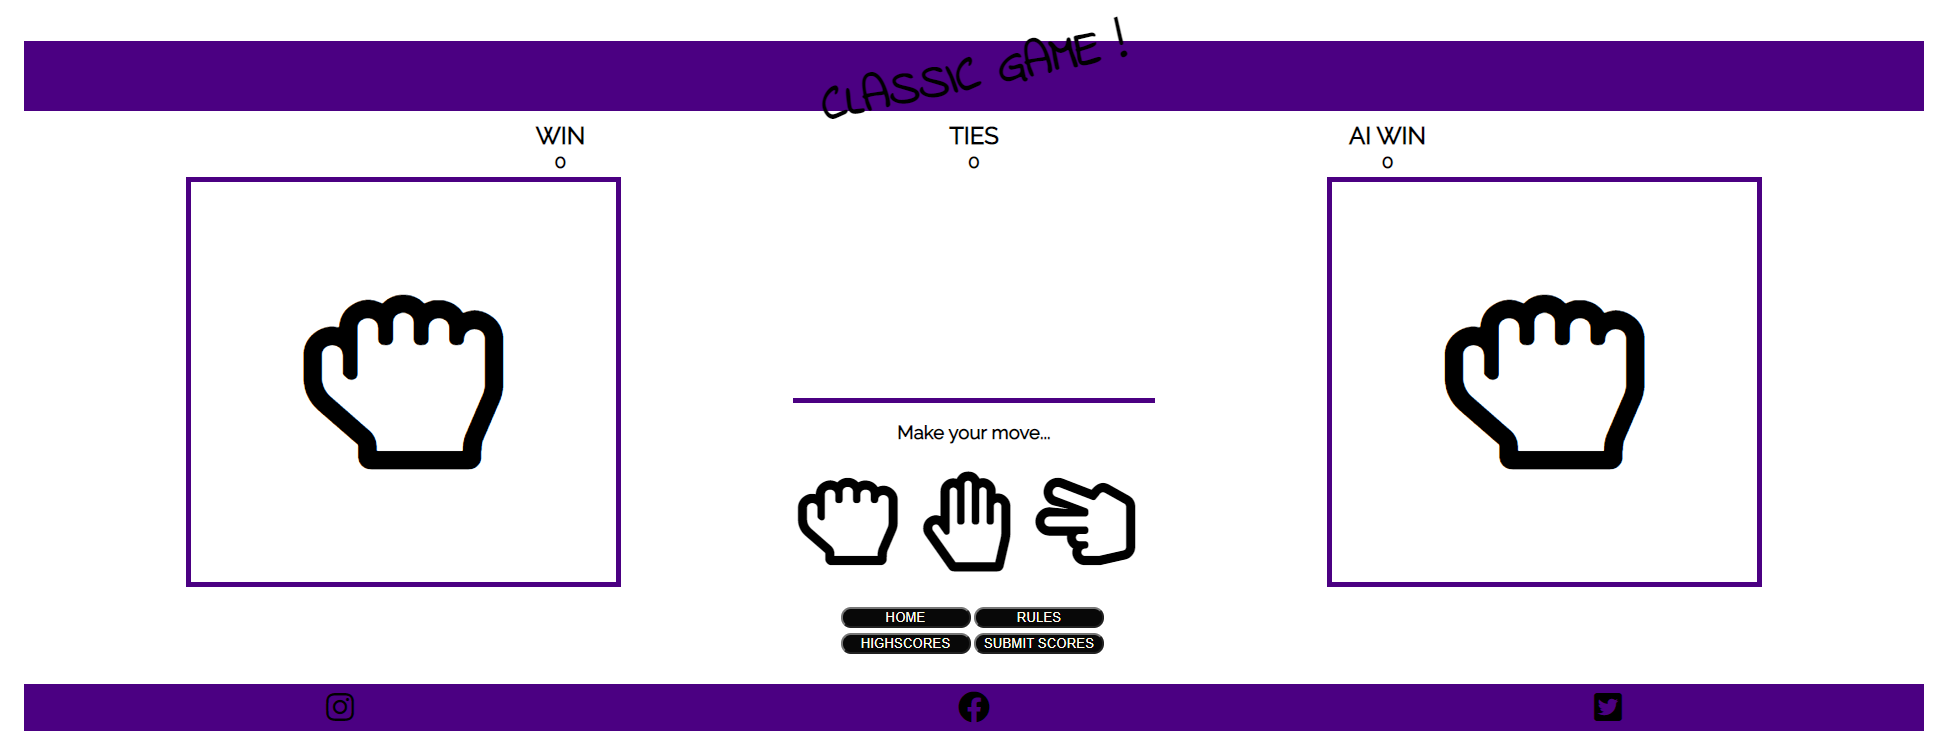
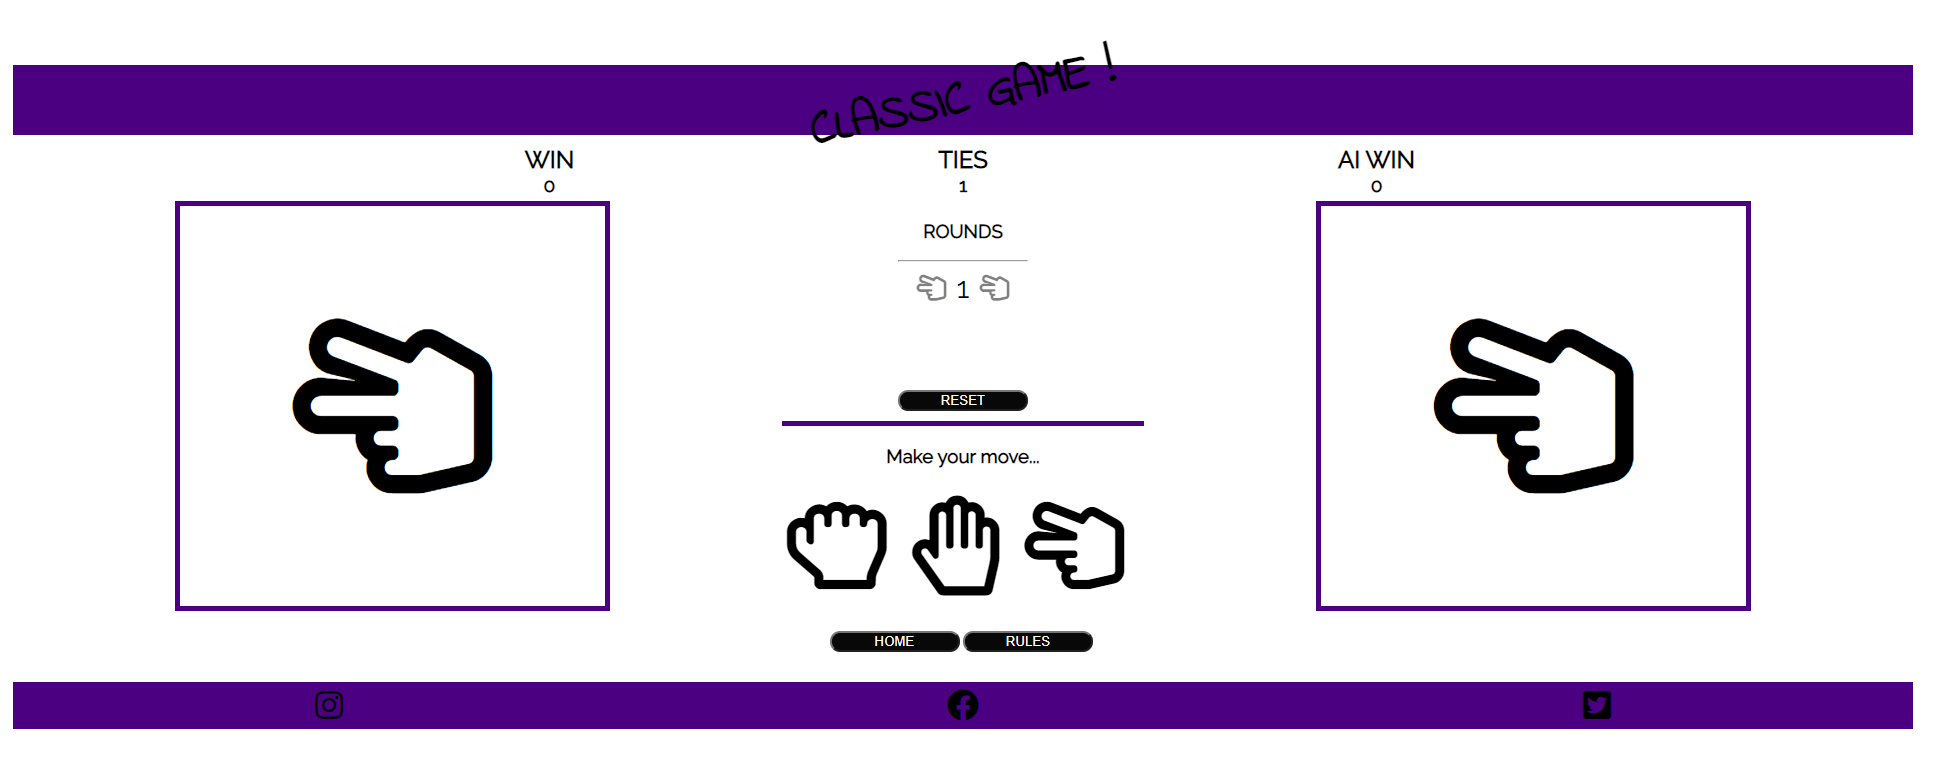
add a new function for the modern game mode

diff --git a/assets/javascript/my_scripts.js b/assets/javascript/my_scripts.js
@@ -27,100 +27,104 @@ let resultBox = document.querySelectorAll(".round")
 let buttons = document.querySelectorAll(".selections")
 let showUserChoice = document.querySelector(".user i")
 let showComputerChoice = document.querySelector(".ai i")
-let randomClasses = ["far fa-hand-rock", "far fa-hand-paper", "far fa-hand-scissors", "far fa-hand-lizard", "far fa-hand-spock"]
+let randomClassesClassic = ["far fa-hand-rock", "far fa-hand-paper", "far fa-hand-scissors"]
+let randomClassesModern = ["far fa-hand-rock", "far fa-hand-paper", "far fa-hand-scissors", "far fa-hand-lizard", "far fa-hand-spock"]
 let showUserLastchoice = document.querySelector(".user-result i")
 let showCompLastchoice = document.querySelector(".comp-result i")
 let resetBtn = document.getElementById("reset-btn")
+let playClassic = document.getElementById("classic-body")
+let playModern = document.getElementById("modern-body")
 let uScores = 1
 let cScores = 1
 let tScores = 1
 let tScoresRes = 1
 
 // With guidance from slackoverflow.com
-let game = () => {
+// For the modern game
+let gameModern = () => {
     // setting forEach function to buttons
     buttons.forEach(btn => {
         btn.addEventListener("click", (e) => {
             // player choice and random choice for the computer
             let clickedBtn = e.target.className
             showUserChoice.className = clickedBtn
-            let randomNum = Math.floor(Math.random() * randomClasses.length)
-            showComputerChoice.className = randomClasses[randomNum]
+            let randomNum = Math.floor(Math.random() * randomClassesModern.length)
+            showComputerChoice.className = randomClassesModern[randomNum]
             // display the rounds area and updates rounds nr
             rounds.style.display = "flex"
             showUserLastchoice.className = clickedBtn
             roundScores.innerHTML = tScoresRes++
-            showCompLastchoice.className = randomClasses[randomNum]
+            showCompLastchoice.className = randomClassesModern[randomNum]
             resetBtn.onclick = () => {
                 location.reload()
-            }       
+            }
             // Game score
             // if it is a tie
-            if(showUserChoice.className === showComputerChoice.className){
+            if (showUserChoice.className === showComputerChoice.className) {
                 userScores.innerHTML = userScores.innerHTML;
                 computerScores.innerHTML = computerScores.innerHTML;
                 tieScores.innerHTML = tScores
                 tScores++
-            } 
-           // if it's not a Tie.
-            else if(showUserChoice.className === randomClasses[0] && showComputerChoice.className === randomClasses[2]){
+            }
+            // if it's not a Tie.
+            else if (showUserChoice.className === randomClassesModern[0] && showComputerChoice.className === randomClassesModern[2]) {
                 userScores.innerHTML = uScores
                 uScores++
-            }else if(showUserChoice.className === randomClasses[0] && showComputerChoice.className === randomClasses[1]){
+            } else if (showUserChoice.className === randomClassesModern[0] && showComputerChoice.className === randomClassesModern[1]) {
                 computerScores.innerHTML = cScores
                 cScores++
-            }else if(showUserChoice.className === randomClasses[0] && showComputerChoice.className === randomClasses[3]){
+            } else if (showUserChoice.className === randomClassesModern[0] && showComputerChoice.className === randomClassesModern[3]) {
                 userScores.innerHTML = uScores
                 uScores++
-            }else if(showUserChoice.className === randomClasses[0] && showComputerChoice.className === randomClasses[4]){
+            } else if (showUserChoice.className === randomClassesModern[0] && showComputerChoice.className === randomClassesModern[4]) {
                 computerScores.innerHTML = cScores
                 cScores++
-            }else if(showUserChoice.className === randomClasses[1] && showComputerChoice.className === randomClasses[2]){
+            } else if (showUserChoice.className === randomClassesModern[1] && showComputerChoice.className === randomClassesModern[2]) {
                 computerScores.innerHTML = cScores
                 cScores++
-            }else if(showUserChoice.className === randomClasses[1] && showComputerChoice.className === randomClasses[0]){
+            } else if (showUserChoice.className === randomClassesModern[1] && showComputerChoice.className === randomClassesModern[0]) {
                 userScores.innerHTML = uScores
                 uScores++
-            }else if(showUserChoice.className === randomClasses[1] && showComputerChoice.className === randomClasses[3]){
+            } else if (showUserChoice.className === randomClassesModern[1] && showComputerChoice.className === randomClassesModern[3]) {
                 computerScores.innerHTML = cScores
                 cScores++
-            }else if(showUserChoice.className === randomClasses[1] && showComputerChoice.className === randomClasses[4]){
+            } else if (showUserChoice.className === randomClassesModern[1] && showComputerChoice.className === randomClassesModern[4]) {
                 userScores.innerHTML = uScores
                 uScores++
-            }else if(showUserChoice.className === randomClasses[2] && showComputerChoice.className === randomClasses[0]){
+            } else if (showUserChoice.className === randomClassesModern[2] && showComputerChoice.className === randomClassesModern[0]) {
                 computerScores.innerHTML = cScores
                 cScores++
-            }else if(showUserChoice.className === randomClasses[2] && showComputerChoice.className === randomClasses[1]){
+            } else if (showUserChoice.className === randomClassesModern[2] && showComputerChoice.className === randomClassesModern[1]) {
                 userScores.innerHTML = uScores
                 uScores++
-            }else if(showUserChoice.className === randomClasses[2] && showComputerChoice.className === randomClasses[3]){
+            } else if (showUserChoice.className === randomClassesModern[2] && showComputerChoice.className === randomClassesModern[3]) {
                 userScores.innerHTML = uScores
                 uScores++
-            }else if(showUserChoice.className === randomClasses[2] && showComputerChoice.className === randomClasses[4]){
+            } else if (showUserChoice.className === randomClassesModern[2] && showComputerChoice.className === randomClassesModern[4]) {
                 computerScores.innerHTML = cScores
                 cScores++
-            }else if(showUserChoice.className === randomClasses[3] && showComputerChoice.className === randomClasses[0]){
+            } else if (showUserChoice.className === randomClassesModern[3] && showComputerChoice.className === randomClassesModern[0]) {
                 computerScores.innerHTML = cScores
                 cScores++
-            }else if(showUserChoice.className === randomClasses[3] && showComputerChoice.className === randomClasses[1]){
+            } else if (showUserChoice.className === randomClassesModern[3] && showComputerChoice.className === randomClassesModern[1]) {
                 userScores.innerHTML = uScores
                 uScores++
-            }else if(showUserChoice.className === randomClasses[3] && showComputerChoice.className === randomClasses[2]){
+            } else if (showUserChoice.className === randomClassesModern[3] && showComputerChoice.className === randomClassesModern[2]) {
                 computerScores.innerHTML = cScores
                 cScores++
-            }else if(showUserChoice.className === randomClasses[3] && showComputerChoice.className === randomClasses[4]){
+            } else if (showUserChoice.className === randomClassesModern[3] && showComputerChoice.className === randomClassesModern[4]) {
                 userScores.innerHTML = uScores
                 uScores++
-            }else if(showUserChoice.className === randomClasses[4] && showComputerChoice.className === randomClasses[0]){
+            } else if (showUserChoice.className === randomClassesModern[4] && showComputerChoice.className === randomClassesModern[0]) {
                 userScores.innerHTML = uScores
                 uScores++
-            }else if(showUserChoice.className === randomClasses[4] && showComputerChoice.className === randomClasses[1]){
+            } else if (showUserChoice.className === randomClassesModern[4] && showComputerChoice.className === randomClassesModern[1]) {
                 computerScores.innerHTML = cScores
                 cScores++
-            }else if(showUserChoice.className === randomClasses[4] && showComputerChoice.className === randomClasses[2]){
+            } else if (showUserChoice.className === randomClassesModern[4] && showComputerChoice.className === randomClassesModern[2]) {
                 userScores.innerHTML = uScores
                 uScores++
-            }else if(showUserChoice.className === randomClasses[4] && showComputerChoice.className === randomClasses[3]){
+            } else if (showUserChoice.className === randomClassesModern[4] && showComputerChoice.className === randomClassesModern[3]) {
                 computerScores.innerHTML = cScores
                 cScores++
             }
@@ -128,6 +132,52 @@ let game = () => {
     })
 }
 
-
-// Calling the game function
-game()
+// For the Classic Game
+let gameClassic = () => {
+    // setting forEach function to buttons
+    buttons.forEach(btn => {
+        btn.addEventListener("click", (e) => {
+            // player choice and random choice for the computer
+            let clickedBtn = e.target.className
+            showUserChoice.className = clickedBtn
+            let randomNum = Math.floor(Math.random() * randomClassesClassic.length)
+            showComputerChoice.className = randomClassesClassic[randomNum]
+            // display the rounds area and updates rounds nr
+            rounds.style.display = "flex"
+            showUserLastchoice.className = clickedBtn
+            roundScores.innerHTML = tScoresRes++
+            showCompLastchoice.className = randomClassesClassic[randomNum]
+            resetBtn.onclick = () => {
+                location.reload()
+            }
+            // Game score
+            // if it is a tie
+            if (showUserChoice.className === showComputerChoice.className) {
+                userScores.innerHTML = userScores.innerHTML;
+                computerScores.innerHTML = computerScores.innerHTML;
+                tieScores.innerHTML = tScores
+                tScores++
+            }
+            // if it's not a Tie.
+            else if (showUserChoice.className === randomClassesClassic[0] && showComputerChoice.className === randomClassesClassic[2]) {
+                userScores.innerHTML = uScores
+                uScores++
+            } else if (showUserChoice.className === randomClassesClassic[0] && showComputerChoice.className === randomClassesClassic[1]) {
+                computerScores.innerHTML = cScores
+                cScores++
+            } else if (showUserChoice.className === randomClassesClassic[1] && showComputerChoice.className === randomClassesClassic[0]) {
+                userScores.innerHTML = uScores
+                uScores++
+            } else if (showUserChoice.className === randomClassesClassic[1] && showComputerChoice.className === randomClassesClassic[2]) {
+                computerScores.innerHTML = cScores
+                cScores++
+            } else if (showUserChoice.className === randomClassesClassic[2] && showComputerChoice.className === randomClassesClassic[0]) {
+                computerScores.innerHTML = cScores
+                cScores++
+            } else if (showUserChoice.className === randomClassesClassic[2] && showComputerChoice.className === randomClassesClassic[1]) {
+                userScores.innerHTML = uScores
+                uScores++
+            }
+        })
+    })
+}

diff --git a/modern.html b/modern.html
@@ -14,7 +14,7 @@
     <title>RPS-GAME</title>
 </head>
 
-<body>
+<body onload="gameModern()">
     <header class="heading head-box">
         <h1 id="head-text">MODERN GAME !</h1>
     </header>
@@ -33,7 +33,7 @@
                 <h2>AI WIN</h2>
                 <span id="ai-score" class="points">0</span>
             </div>
-        </div>    
+        </div>
         <div id="user-choice" class="user"><i class="far fa-hand-rock"></i></div>
         <div id="ai-choice" class="ai"><i class="far fa-hand-rock"></i></div>
         <div id="last-rounds" class="rounds">
@@ -67,7 +67,7 @@
     </div>
     <!-- links for rules and highscores -->
     <div class="play-buttons">
-        <a href="index.html"><button class="btns" id="home">HOME</button></a>
+        <button class="btns" id="home" onclick="window.location.href='/index.html'">HOME</button>
         <button class="btns" id="rules">RULES</button>
         <!-- Modal content , some of the code from w3schools.com -->
         <div id="myModal" class="modal">
@@ -86,13 +86,13 @@
                             <p><i class="far fa-hand-rock"></i> BLUNTS <i class="far fa-hand-scissors"></i></p>
                             <p><i class="far fa-hand-scissors"></i> CUTS <i class="far fa-hand-paper"></i></p>
                             <p><i class="far fa-hand-paper"></i> WRAPS <i class="far fa-hand-rock"></i></p>
-                            <p><i class="far fa-hand-spock"></i> SMASHES <i class="far fa-hand-scissors"></i></i></p>
-                            <p><i class="far fa-hand-lizard"></i> POISIONS <i class="far fa-hand-spock"></i></i></p>
-                            <p><i class="far fa-hand-scissors"></i> DECAPITATES <i class="far fa-hand-lizard"></i></i></p>
-                            <p><i class="far fa-hand-paper"></i> DISPROVES <i class="far fa-hand-spock"></i></i></p>
+                            <p><i class="far fa-hand-spock"></i> SMASHES <i class="far fa-hand-scissors"></i></p>
+                            <p><i class="far fa-hand-lizard"></i> POISIONS <i class="far fa-hand-spock"></i></p>
+                            <p><i class="far fa-hand-scissors"></i> DECAPITATES <i class="far fa-hand-lizard"></i></p>
+                            <p><i class="far fa-hand-paper"></i> DISPROVES <i class="far fa-hand-spock"></i></p>
                             <p><i class="far fa-hand-rock"></i> CRUSCHES <i class="far fa-hand-lizard"></i></p>
-                            <p><i class="far fa-hand-spock"></i> VAPORIZES <i class="far fa-hand-rock"></i></i></p>
-                            <p><i class="far fa-hand-lizard"></i> EATS <i class="far fa-hand-paper"></i></i></p>
+                            <p><i class="far fa-hand-spock"></i> VAPORIZES <i class="far fa-hand-rock"></i></p>
+                            <p><i class="far fa-hand-lizard"></i> EATS <i class="far fa-hand-paper"></i></p>
                         </div>
                     </div>
                 </div>

diff --git a/index.html b/index.html
@@ -38,7 +38,8 @@
                 <br><br>
                 The rest, as they say, is history.
                 <br>
-                <a id="citation" href="https://www.tofugu.com/japan/janken/" target="blank"><strong><em>Citation: Tofugu</em></strong></a>
+                <a id="citation" href="https://www.tofugu.com/japan/janken/" target="blank"><strong><em>Citation:
+                            Tofugu</em></strong></a>
             </p>
         </div>
     </div>
@@ -82,13 +83,13 @@
                             <p><i class="far fa-hand-rock"></i> BLUNTS <i class="far fa-hand-scissors"></i></p>
                             <p><i class="far fa-hand-scissors"></i> CUTS <i class="far fa-hand-paper"></i></p>
                             <p><i class="far fa-hand-paper"></i> WRAPS <i class="far fa-hand-rock"></i></p>
-                            <p><i class="far fa-hand-spock"></i> SMASHES <i class="far fa-hand-scissors"></i></i></p>
-                            <p><i class="far fa-hand-lizard"></i> POISIONS <i class="far fa-hand-spock"></i></i></p>
-                            <p><i class="far fa-hand-scissors"></i> DECAPITATES <i class="far fa-hand-lizard"></i></i></p>
-                            <p><i class="far fa-hand-paper"></i> DISPROVES <i class="far fa-hand-spock"></i></i></p>
+                            <p><i class="far fa-hand-spock"></i> SMASHES <i class="far fa-hand-scissors"></i></p>
+                            <p><i class="far fa-hand-lizard"></i> POISIONS <i class="far fa-hand-spock"></i></p>
+                            <p><i class="far fa-hand-scissors"></i> DECAPITATES <i class="far fa-hand-lizard"></i></p>
+                            <p><i class="far fa-hand-paper"></i> DISPROVES <i class="far fa-hand-spock"></i></p>
                             <p><i class="far fa-hand-rock"></i> CRUSCHES <i class="far fa-hand-lizard"></i></p>
-                            <p><i class="far fa-hand-spock"></i> VAPORIZES <i class="far fa-hand-rock"></i></i></p>
-                            <p><i class="far fa-hand-lizard"></i> EATS <i class="far fa-hand-paper"></i></i></p>
+                            <p><i class="far fa-hand-spock"></i> VAPORIZES <i class="far fa-hand-rock"></i></p>
+                            <p><i class="far fa-hand-lizard"></i> EATS <i class="far fa-hand-paper"></i></p>
                         </div>
                     </div>
                 </div>

diff --git a/classic.html b/classic.html
@@ -10,11 +10,11 @@
     <!-- Favicon and css stylesheet links -->
     <link rel="icon" type="image/png" sizes="16x16" href="assets/images/favicon.png">
     <link rel="stylesheet" href="assets/css/style.css">
-
+    
     <title>RPS-GAME</title>
 </head>
 
-<body>
+<body onload="gameClassic()">
     <header class="heading head-box">
         <h1 id="head-text">CLASSIC GAME !</h1>
     </header>
@@ -33,7 +33,7 @@
                 <h2>AI WIN</h2>
                 <span id="ai-score" class="points">0</span>
             </div>
-        </div>    
+        </div>
         <div id="user-choice" class="user"><i class="far fa-hand-rock"></i></div>
         <div id="ai-choice" class="ai"><i class="far fa-hand-rock"></i></div>
         <div id="last-rounds" class="rounds">
@@ -65,7 +65,7 @@
     </div>
     <!-- links for rules and highscores -->
     <div class="play-buttons">
-        <a href="index.html"><button class="btns" id="home">HOME</button></a>
+        <button class="btns" id="home" onclick="window.location.href='/index.html'">HOME</button>
         <button class="btns" id="rules">RULES</button>
         <!-- Modal content , some of the code from w3schools.com -->
         <div id="myModal" class="modal">

diff --git a/assets/css/style.css b/assets/css/style.css
@@ -369,7 +369,7 @@ h2 {
         justify-content: center;
     }
 
-    .user, 
+    .user,
     .ai {
         display: inline-flex;
         justify-content: center;
@@ -422,7 +422,7 @@ h2 {
         font-size: 11px;
     }
 
-    #intro-box > div > h2 {
+    #intro-box>div>h2 {
         font-size: 20px;
     }
 
@@ -431,7 +431,7 @@ h2 {
         padding: 5px;
     }
 
-    .user, 
+    .user,
     .ai {
         width: 150px;
     }
@@ -455,11 +455,11 @@ h2 {
         font-size: 10px;
     }
 
-    #intro-box > div > h2 {
+    #intro-box>div>h2 {
         font-size: 15px;
     }
 
-    #result-box > div > h3 {
+    #result-box>div>h3 {
         margin: 0;
     }
 
@@ -467,7 +467,7 @@ h2 {
         font-size: 30px;
     }
 
-    .grid-game > div > i {
+    .grid-game>div>i {
         font-size: 60px;
     }
 

diff --git a/README.md b/README.md
@@ -48,23 +48,22 @@ The primary goal of this site is to give visitors a fun time and to have a place
 ![](assets/readme_media/footer.png)
 
 # Feauters left to implement.
-*
-*
-*
-*
+* Highscore section
+* Different levels of difficulty
+* More Games
 
 ## Validator testing.
 * HTML
-    * 
+  * No errors were returned when passing through the official [W3C validator](https://validator.w3.org/nu/)
 * CSS
-    *
+  * No errors were found when passing through the official [Jigsaw validator](https://jigsaw.w3.org/css-validator/)
 * JavaScript
-    *
+  * No errors were found when passing through the official [Jshint validator](https://jshint.com)
 # Bugs.
-    *
-    *
-    *
-    *
+  * 
+  *
+  *
+  *
 
 # Deployment steps.
   * The site was deployed to GitHub pages. The steps to deploy are as follows:
